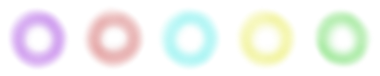
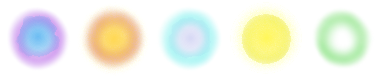
敵の弾を明るく調整、不要な処理の削除、突進ボスの調整(途中まで)

diff --git a/iijimahan/Assets/Script/BossActor/Boss1Attack2.cs b/iijimahan/Assets/Script/BossActor/Boss1Attack2.cs
@@ -5,7 +5,6 @@ using UnityEngine;
 public class Boss1Attack2 : MonoBehaviour
 {
     int Cnt = 0;
-    int Cnt2 = 0;
     Acter act;
     [SerializeField, Header("ボス攻撃SE")] public AudioClip BulletSE;
     private AudioSource audioSource;
@@ -39,7 +38,6 @@ public class Boss1Attack2 : MonoBehaviour
                     }
                     Cnt = 0;
                    // GameObject.FindGameObjectWithTag("Boss").GetComponent<BossBulletManager>().FBulletFactory[0].CreateBullet5(transform.position, 3);
-                    Cnt2++;
                     if (GetComponent<BossHp>().status == BossHp.Status.Damege)
                     {
                         for (int x = 0; x < 3; x++)

diff --git a/iijimahan/Assets/Script/BossActor/BossAttack.cs b/iijimahan/Assets/Script/BossActor/BossAttack.cs
@@ -10,7 +10,6 @@ enum Acter
 public class BossAttack : MonoBehaviour
 {
     int Cnt = 0;
-    int Cnt2=0;
     Acter act;
     [SerializeField, Header("ボス攻撃SE")] public AudioClip BulletSE;
     private AudioSource audioSource;
@@ -43,7 +42,6 @@ public class BossAttack : MonoBehaviour
                         GameObject.FindGameObjectWithTag("Boss").GetComponent<BossBulletManager>().FBulletFactory[0].CreateBullet2(transform.position, 0);
                     }
                     Cnt = 0;
-                    Cnt2++;
                     if(GetComponent<BossHp>().status==BossHp.Status.Damege)
                     {
                         for (int x = 0; x < 3; x++)

diff --git a/iijimahan/Assets/Script/BossActor/NeedlesRota.cs b/iijimahan/Assets/Script/BossActor/NeedlesRota.cs
@@ -14,6 +14,8 @@ public class NeedlesRota : MonoBehaviour
     // Update is called once per frame
     void Update()
     {
+        //ポーズの時に止める
+        if (Time.timeScale <= 0) return;
         transform.Rotate(new Vector3(0, x, 0));
     }
 }

diff --git a/iijimahan/Assets/Script/BossActor/LaserBoss.cs b/iijimahan/Assets/Script/BossActor/LaserBoss.cs
@@ -6,7 +6,6 @@ using UnityEngine;
 public class LaserBoss : MonoBehaviour
 {
     int Cnt = 440;
-    float Angle;
     Acter act;
     [SerializeField, Header("ボス攻撃SE")] public AudioClip BulletSE;
     private AudioSource audioSource;
